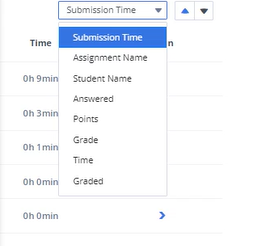
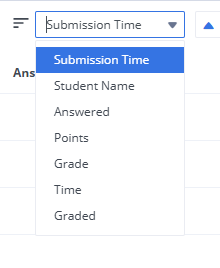
updated grading queue (#331)

diff --git a/source/instructors/teaching/grading/grading.rst b/source/instructors/teaching/grading/grading.rst
@@ -70,18 +70,21 @@ Grading Queue
 
 Information on all students that require grading for all assignments in the course can be seen from the course **Queue** area in the **Grading** section.
 
-By default, the list is sorted by submission time, with the oldest submission at the top but other filters can be set as required.
+By default the Grading Queue displays all students' submission that require grading, organized by module/assignment but using the Do Not Group button you can swap to view the queue where the list is sorted by submission time, with the oldest submission at the top but other filters can be set as required.
 
   .. image:: /img/gradingqueue.png
      :alt: Grading Queue
 
-- Assignment Name
+
 - Student Name
-- Grade
-- Points
-- Graded
 - Answered
+- Points
+- Grade
 - Time
+- Graded
+
+
+As explained in the previous section, once you open a student's submission then you can use **Next**, **Previous**, **Next Ungraded** and **Previous Ungraded** buttons to move to the next/previous student submission or next/previous ungraded assessment in that specific assignment.
 
 Override Grade
 --------------

diff --git a/source/instructors/authoring/guides/page_editing.rst b/source/instructors/authoring/guides/page_editing.rst
@@ -49,7 +49,6 @@ Layout settings gives you access to the key functions:
   - :ref:`Layout <layout>` allows you to specify the number of panels/columns you want to choose for this section, or set to **Previous** to inherit the layout settings from the previous page.
   - **Show File Tree** allows you to define whether to show or hide the file tree.
      - :ref:`Show Folders <show-hide-folders>` allows you to define specific folders in your project that you wish to be visible when the current section is displayed.
-  - **Content Type** allows you to write your content in either :ref:`Markdown <markdown-content-editing>` or :ref:`HTML <html-content>`.
   - **Guides on Left** allows you to define whether the guides content shows on the left or right.
   - :ref:`Teacher Only <teacher-only>` allows you to show content that only teachers are able to see.      
   - :ref:`Close Tabs <close-tabs>` allows you to close all tabs open from previous section.

diff --git a/source/instructors/authoring/guides/markdown_content.rst b/source/instructors/authoring/guides/markdown_content.rst
@@ -3,13 +3,13 @@
 
 .. _markdown-content-editing:
 
-Markdown content editing
-========================
+Content editing
+===============
 
 Content can be written in
 
 - **Markdown** - Markdown is a lightweight markup language that you can use to add formatting elements to plaintext text documents. More information below.
-- **HTML** - Hypertext Markup Language allows more detailed control of your formatting. More information can be found :ref:`here <html-content>`.
+
 
 When you are in edit mode, you can select a section by
 
